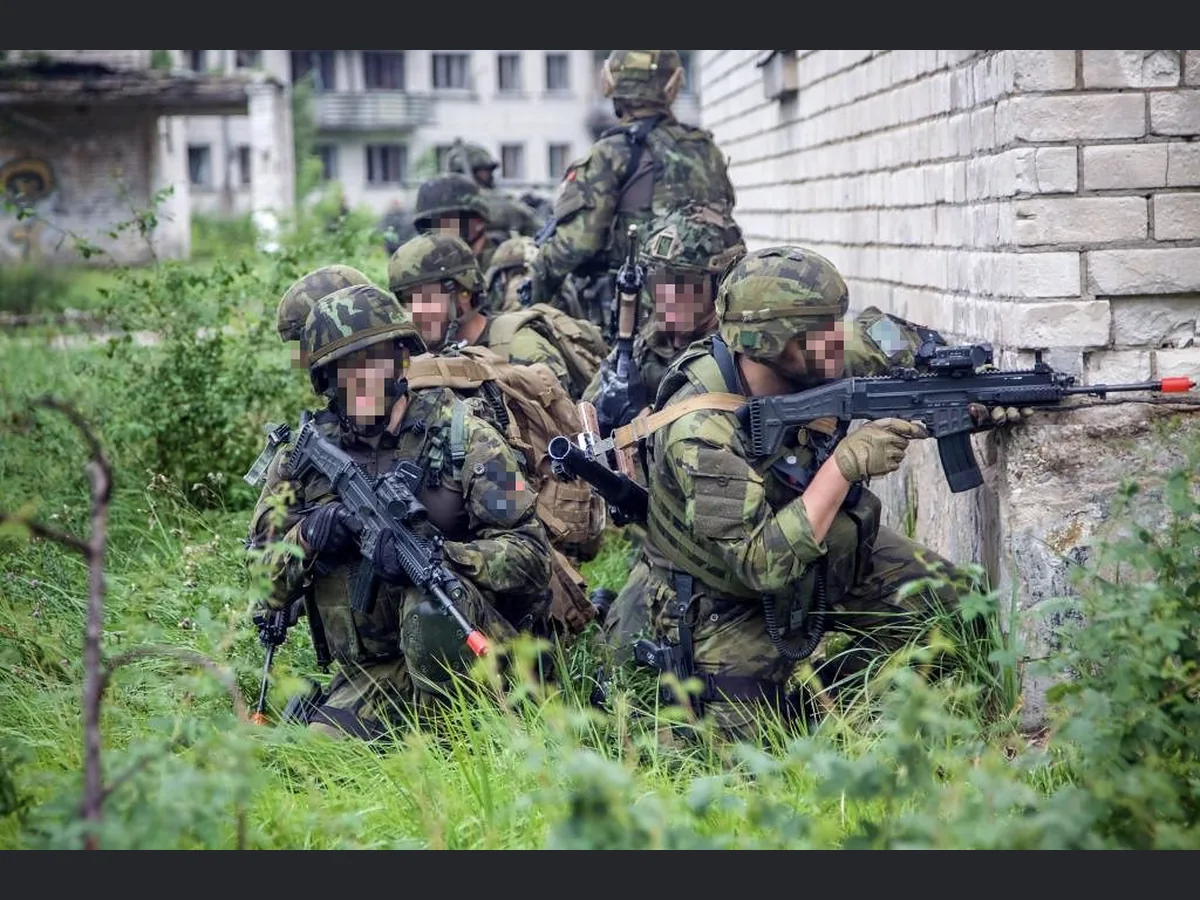
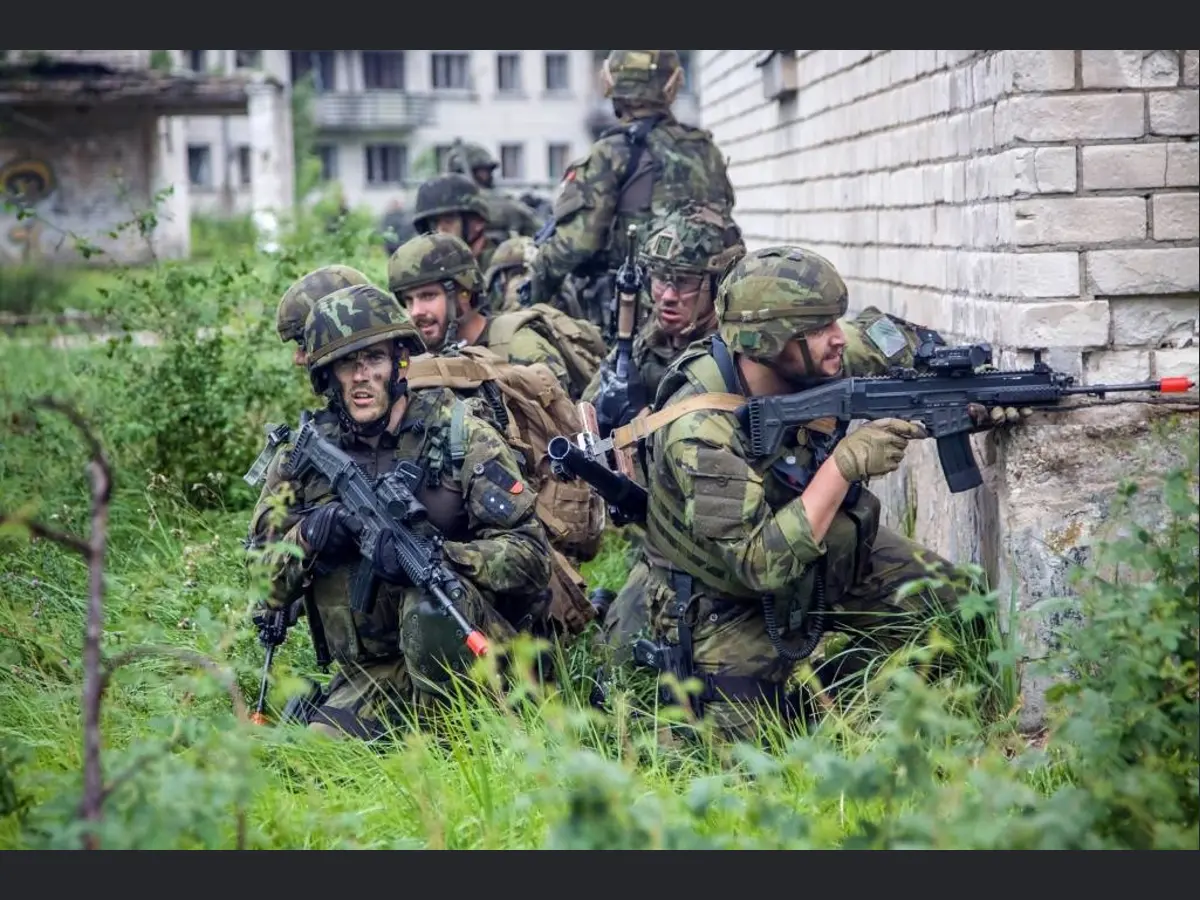
Fix comparison slider and first photo

diff --git a/index.html b/index.html
@@ -51,7 +51,8 @@
   .reel{margin:44px 0 0}
   .cmp{position:relative;aspect-ratio:4/3;overflow:hidden;background:var(--bg);border:1px solid var(--line);
     touch-action:pan-y;user-select:none;cursor:ew-resize}
-  .cmp img{position:absolute;inset:0;width:100%;height:100%;object-fit:contain;display:block}
+  .cmp img{position:absolute;inset:0;width:100%;height:100%;object-fit:contain;display:block;
+    pointer-events:none;user-select:none;-webkit-user-drag:none}
   .cmp .after{clip-path:inset(0 0 0 var(--p,45%))}
   .cmp .lbl{position:absolute;top:12px;font-family:var(--mono);font-size:10px;letter-spacing:.16em;
     text-transform:uppercase;padding:6px 10px;background:rgba(17,17,17,.72);color:var(--txt);pointer-events:none}
@@ -64,7 +65,9 @@
     display:flex;align-items:center;justify-content:center;box-shadow:0 3px 14px rgba(0,0,0,.5)}
   .cmp .grip::before{content:"";width:14px;height:14px;
     background:linear-gradient(90deg,#fff 0 3px,transparent 3px 5px,#fff 5px 8px,transparent 8px 10px,#fff 10px 13px)}
-  .cmp:focus-visible{outline:2px solid var(--red-hi);outline-offset:3px}
+  .cmp-range{position:absolute;inset:0;z-index:5;width:100%;height:100%;margin:0;opacity:0;
+    cursor:ew-resize;touch-action:pan-y}
+  .cmp:focus-within{outline:2px solid var(--red-hi);outline-offset:3px}
   .reel-foot{display:flex;align-items:center;gap:14px;flex-wrap:wrap;margin-top:14px}
   .dots{display:flex;gap:7px}
   .dots button{width:26px;height:5px;padding:0;border:0;background:var(--line);cursor:pointer}
@@ -114,14 +117,15 @@
     <p class="note">Free to use &middot; works offline once downloaded &middot; about 1.6 MB</p>
 
     <div class="reel">
-      <div class="cmp" id="cmp" tabindex="0" role="slider" aria-label="Drag to compare the original with the redacted version"
-           aria-valuemin="0" aria-valuemax="100" aria-valuenow="45">
+      <div class="cmp" id="cmp">
         <img id="imgBefore" src="img/3-before.webp" alt="Original photograph" width="1200" height="900" />
         <img id="imgAfter" class="after" src="img/3-after.webp" alt="The same photograph with the faces covered" width="1200" height="900" />
         <span class="lbl l">Original</span>
         <span class="lbl r">Redacted</span>
         <span class="bar"></span>
         <span class="grip"></span>
+        <input class="cmp-range" id="cmpRange" type="range" min="0" max="100" value="45" step="0.1"
+               aria-label="Drag to compare the original with the redacted version" />
       </div>
       <div class="reel-foot">
         <div class="dots" id="dots"></div>
@@ -193,6 +197,7 @@
     { n: "4", cap: "One soldier, one bar across the eyes" }
   ];
   var cmp = document.getElementById("cmp");
+  var range = document.getElementById("cmpRange");
   var imgB = document.getElementById("imgBefore");
   var imgA = document.getElementById("imgAfter");
   var dots = document.getElementById("dots");
@@ -202,7 +207,7 @@
   function setP(v) {
     p = Math.max(0, Math.min(100, v));
     cmp.style.setProperty("--p", p + "%");
-    cmp.setAttribute("aria-valuenow", Math.round(p));
+    range.value = p;
   }
   function show(i, sweep) {
     idx = (i + PAIRS.length) % PAIRS.length;
@@ -246,24 +251,16 @@
     dots.appendChild(b);
   });
 
-  function fromEvent(e) {
-    var r = cmp.getBoundingClientRect();
-    setP(((e.clientX - r.left) / r.width) * 100);
-  }
-  cmp.addEventListener("pointerdown", function (e) {
+  range.addEventListener("pointerdown", function () {
     dragging = true;
     stopAuto();
-    if (cmp.setPointerCapture) cmp.setPointerCapture(e.pointerId);
-    fromEvent(e);
   });
-  cmp.addEventListener("pointermove", function (e) { if (dragging) fromEvent(e); });
-  ["pointerup", "pointercancel"].forEach(function (t) {
-    cmp.addEventListener(t, function () { dragging = false; });
+  range.addEventListener("input", function () {
+    stopAuto();
+    setP(parseFloat(range.value));
   });
-  cmp.addEventListener("keydown", function (e) {
-    var step = e.shiftKey ? 10 : 3;
-    if (e.key === "ArrowLeft") { stopAuto(); setP(p - step); e.preventDefault(); }
-    if (e.key === "ArrowRight") { stopAuto(); setP(p + step); e.preventDefault(); }
+  ["pointerup", "pointercancel", "change", "blur"].forEach(function (t) {
+    range.addEventListener(t, function () { dragging = false; });
   });
 
   show(0, false);
@@ -340,7 +337,7 @@
       })(t0);
     }
     mark.addEventListener("mouseenter", run);
-    setInterval(run, 9000);
+    setInterval(run, 17000);
     setTimeout(run, 2200);
   })();
 })();
